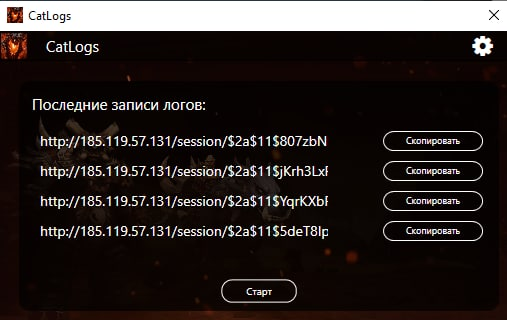
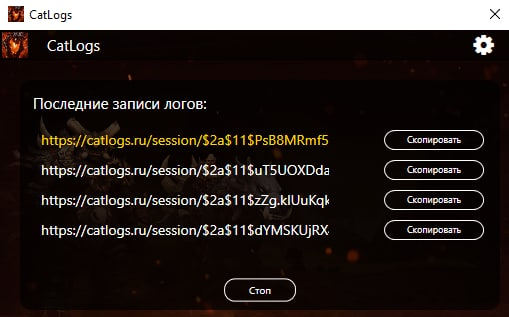
Заменил ссылку для скачивания

diff --git a/src/screens/app/AppComponent.js b/src/screens/app/AppComponent.js
@@ -39,7 +39,7 @@ const AppComponent = ({
                 3) Можно идти в рейд!
             </div>
 
-            <a href=" http://185.119.57.131:2525/download" download className="DownloadButton">
+            <a href="https://catlogs.ru/reader/download" download className="DownloadButton">
                 Скачать
             </a>
             <div className="AppText TextCenter">
